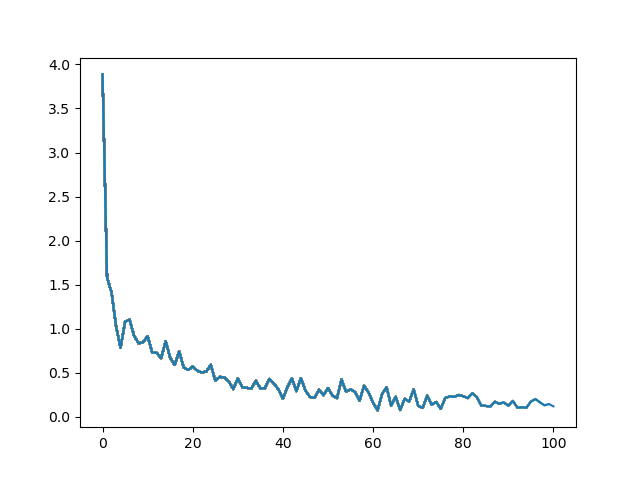
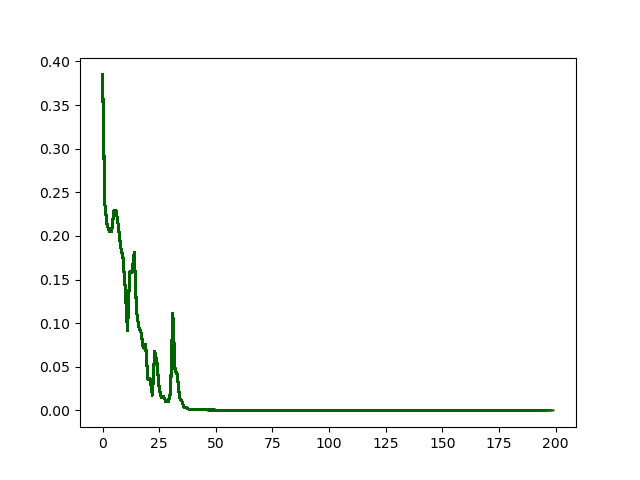
5 classes

diff --git a/brainclip/model/network/image_classifier.py b/brainclip/model/network/image_classifier.py
@@ -2,21 +2,31 @@ import torch
 import torch.nn as nn
 from torchvision.models.video import r3d_18
 from torch.optim import Adam
-from brainclip.model.utils.file_utils import update_png
+from brainclip.model.utils.file_utils import update_png, get_device 
 import torch
 from torch.utils.data import DataLoader
 from brainclip.model.utils.file_utils import load_dataset
+import numpy as np
 
 class ImageEncoder(nn.Module):
-    def __init__(self, embedding_size=200):
+    def __init__(self, embedding_size=400):
         super(ImageEncoder, self).__init__()
         self.embedding_size=embedding_size 
-        self.num_classes = 3 
+        self.num_classes = 5 
+
         self.resnet3d_output_size = 400 # number of classes for kinetics400
         self.resnet3d = r3d_18(weights='KINETICS400_V1')
+
+        # freeze all layers except last one - Linear Probing
+        for param in self.resnet3d.parameters():
+            param.requires_grad_(False)
+
+        for param in self.resnet3d.layer4.parameters():
+            param.requires_grad_(True)
+
         self.embedding_layer = nn.Linear(
             in_features=self.resnet3d_output_size,
-            out_features=self.num_classes # change to self.embedding_size
+            out_features=self.num_classes 
             )
 
     def forward(self, x):
@@ -34,7 +44,7 @@ class BrainCLIPDataset(torch.utils.data.Dataset):
         return len(self.data)
     
     def __getitem__(self, index):
-        image, input_id_report, attention_mask_report, label = self.data[index]
+        image, input_id_report, attention_mask_report, label, img_path = self.data[index]
         return image, label
 
 class BrainCLIPDataLoader:
@@ -42,6 +52,9 @@ class BrainCLIPDataLoader:
         self.split_type = split_type
         self.batch_size = batch_size
         self.train_dataset = BrainCLIPDataset(self.split_type)
+
+    def __len__(self):
+        return len(self.train_dataset)
         
     def __iter__(self):
         train_loader = DataLoader(self.train_dataset, batch_size=self.batch_size, shuffle=True)
@@ -49,25 +62,57 @@ class BrainCLIPDataLoader:
 
 
 
-
-model = ImageEncoder()
-criterion = nn.CrossEntropyLoss()
+device = get_device()
+model = ImageEncoder().to(device)
+ce_loss = nn.CrossEntropyLoss()
 optimizer = Adam(model.parameters(), lr=0.001)
 
 train_loader = BrainCLIPDataLoader("train")
 
-num_epochs = 50
-loss_history = []
+num_epochs = 200
+train_losses = []
 
 for epoch in range(num_epochs):
-    for images, labels in train_loader:
+    epoch_loss = 0.0
+    for batch_idx, (images, label) in enumerate(train_loader):
+        # move data to device
+        images, labels = images.to(device), label.to(device)
         optimizer.zero_grad()
-        outputs = model(images)
-        loss = criterion(outputs, labels)
-        loss_history.append(loss.detach().numpy())
-        update_png(loss_history)
+
+        output = model(images)
+        loss = ce_loss(output, label.to(device))
+        epoch_loss += loss.item()
+
+        # backward pass and optimize
         loss.backward()
         optimizer.step()
 
+    # log epoch loss and update plot
+    epoch_loss /= len(train_loader)
+    train_losses.append(epoch_loss)
 
-torch.save(model.state_dict(), "/datadrive_m2/alice/brain-CLIP/brainclip/model/experiments/image_encoder.pt")
+    print(f"Epoch {epoch + 1} loss: {epoch_loss:.4f}")
+
+    update_png(train_losses, "imgclass") 
+
+
+# ---- inference
+
+test_loader = BrainCLIPDataLoader("valid", batch_size=2)
+
+predictions = []
+ground_truth = []
+for images, labels in test_loader:
+    images, labels = images.to(device), labels.to(device)
+    with torch.no_grad():
+        output = model(images)
+        print(output)
+        predictions.append(output.argmax(dim=1).cpu().numpy())
+        ground_truth.append(labels.argmax(dim=1).cpu().numpy())
+
+predictions = np.concatenate(predictions)
+ground_truth = np.concatenate(ground_truth)
+
+accuracy = (predictions == ground_truth).mean()
+print(f"GT:{ground_truth}, \nP: {predictions}")
+print(f"Accuracy: {accuracy}")

diff --git a/brainclip/model/inference/find_match.py b/brainclip/model/inference/find_match.py
@@ -5,6 +5,8 @@ from brainclip.model.utils.file_utils import get_device, load_BrainCLIP
 from brainclip.model.network.data_loader import BrainCLIPDataLoader
 from brainclip.model.utils.processing import tokenize
 import torch.nn.functional as F
+from brainclip.model.network.brain_CLIP_model import BrainCLIPClassifier, ImageEncoder, TextEncoder, BrainCLIP
+
 
 
 def get_image_embeddings(model, device):
@@ -57,8 +59,8 @@ def get_embeddings(model, device, query):
     return torch.cat(valid_image_embeddings), torch.cat(valid_text_embeddings), valid_image_paths, valid_true_class
 
 def get_class_prediction(image_embeddings, text_embeddings):
-    cat_embedding = torch.cat((image_embeddings, text_embeddings.repeat(5,1)), dim=1)
-    cls_pred = model.fc(cat_embedding)
+    cat_embedding = torch.cat((image_embeddings, text_embeddings.repeat(10,1)), dim=1)
+    cls_pred = brainclip_model.fc(cat_embedding)
     return cls_pred.cpu()
 
 def correct_prediction(ground_truth, predictions):
@@ -71,29 +73,27 @@ def find_matches(model, device, query, n=5):
     image_embeddings, image_filenames, ground_truth = get_image_embeddings(model, device)
     text_embeddings = get_text_embeddings(model, device, query)
     
-    cls_pred = get_class_prediction(image_embeddings, text_embeddings)
+    #cls_pred = get_class_prediction(image_embeddings, text_embeddings)
 
     image_embeddings_n = F.normalize(image_embeddings, p=2, dim=-1)
     text_embeddings_n = F.normalize(text_embeddings, p=2, dim=-1)
     dot_similarity = text_embeddings_n @ image_embeddings_n.T
     
-    # multiplying by 5 to consider that there are 5 captions for a single image
-    # so in indices, the first 5 indices point to a single image, the second 5 indices
-    # to another one and so on.
-    values, indices = torch.topk(dot_similarity.squeeze(0), n * 1)
-    matches = [image_filenames[idx] for idx in indices[::5]]
+    values, indices = torch.topk(dot_similarity.squeeze(0), n)
+    matches = [image_filenames[idx] for idx in indices]
     
     """Plot matches function""" # TODO
 
     print(values, indices, matches)
-    print(correct_prediction(ground_truth, cls_pred))
+    #print(correct_prediction(ground_truth, cls_pred))
 
 
 device = get_device()
-model =load_BrainCLIP(device,"/datadrive_m2/alice/brain-CLIP/brainclip/model/experiments/brainclip_class_final.pt")
+brainclip_model = BrainCLIP(ImageEncoder(), TextEncoder()).to(device) # infarct, normal, others
+brainclip_model = load_BrainCLIP(device, final_model_path, brainclip_model)
 
-find_matches(model, 
+find_matches(brainclip_model, 
              device,
-             query="no infarct",
-             n=5
+             query="tumor",
+             n=3
              )

diff --git a/brainclip/model/network/brain_CLIP_model.py b/brainclip/model/network/brain_CLIP_model.py
@@ -9,10 +9,17 @@ class ImageEncoder(nn.Module):
     def __init__(self, embedding_size=400):
         super(ImageEncoder, self).__init__()
         self.embedding_size=embedding_size 
-        self.num_classes = 3 
+
         self.resnet3d_output_size = 400 # number of classes for kinetics400
         self.resnet3d = r3d_18(weights='KINETICS400_V1')
-        self.resnet3d.requires_grad_(False)
+        
+        # freeze all layers except last one - Linear Probing
+        for param in self.resnet3d.parameters():
+            param.requires_grad_(False)
+
+        for param in self.resnet3d.layer4.parameters():
+            param.requires_grad_(True)
+
         self.embedding_layer = nn.Linear(
             in_features=self.resnet3d_output_size,
             out_features=self.embedding_size
@@ -28,9 +35,10 @@ class TextEncoder(nn.Module):
     def __init__(self, embedding_size=400):
         super(TextEncoder, self).__init__()
         self.embedding_size=embedding_size
+        self.distilbert_output_size = 768
         self.distilbert = DistilBertModel.from_pretrained('distilbert-base-uncased')
         self.distilbert.requires_grad_(False) # freeze all bert layers
-        self.embedding_layer = nn.Linear(in_features=768, out_features=embedding_size)
+        self.embedding_layer = nn.Linear(in_features=self.distilbert_output_size, out_features=embedding_size)
 
     def forward(self, input_id_report, attention_mask_report):
         outputs = self.distilbert(input_id_report.squeeze(0), attention_mask_report)
@@ -71,7 +79,7 @@ class BrainCLIP(nn.Module):
         self.text_encoder = text_encoder
         self.image_projection = ProjectionHead(embedding_dim=self.image_encoder.embedding_size)
         self.text_projection = ProjectionHead(embedding_dim=self.text_encoder.embedding_size)
-        self.temperature = 1.0 # no difference
+        self.temperature = 0.2 # no difference
 
     def cross_entropy(self, preds, targets, reduction='none'):
         log_softmax = nn.LogSoftmax(dim=-1)

diff --git a/brainclip/model/network/classification.py b/brainclip/model/network/classification.py
@@ -11,25 +11,37 @@ device = get_device()
 brainclip_model = BrainCLIP(ImageEncoder(), TextEncoder()).to(device) # infarct, normal, others
 brainclip_model = load_BrainCLIP(device, final_model_path, brainclip_model)
 
-model = BrainCLIPClassifier(brainclip_model, 3).to(device)
+model = BrainCLIPClassifier(brainclip_model, 5).to(device)
 
 train_loader = BrainCLIPDataLoader("train", batch_size=5)
 
 learning_rate = 0.001
 optimizer = Adam(model.parameters(), lr=learning_rate)
 
-num_epochs = 20
-loss_history = []
+num_epochs = 200
+train_losses = []
 
 for epoch in range(num_epochs):
-    for images, input_id_report, attention_mask_report, labels, _ in train_loader:
-        data = [d.to(device) for d in [images, input_id_report, attention_mask_report, labels]]
+    epoch_loss = 0.0
+    for batch_idx, (images, input_id_report, attention_mask_report, label, _) in enumerate(train_loader):
+        # move data to device
+        images, input_id_report, attention_mask_report, label = images.to(device), input_id_report.to(device), attention_mask_report.to(device), label.to(device)
         optimizer.zero_grad()
-        loss = model(*data)
-        loss_history.append(loss.detach().cpu().numpy())
-        update_png(loss_history, "classification")
+
+        loss = model(images, input_id_report, attention_mask_report, label)
+        epoch_loss += loss.item()
+
+        # backward pass and optimize
         loss.backward()
         optimizer.step()
+
+    # log epoch loss and update plot
+    epoch_loss /= len(train_loader)
+    train_losses.append(epoch_loss)
+
+    print(f"Epoch {epoch + 1} loss: {epoch_loss:.4f}")
+
+    update_png(train_losses, "brainclip_cls_")  
     
     if epoch % 100 == 0:
         torch.save(model.state_dict(), f"/datadrive_m2/alice/brain-CLIP/brainclip/model/experiments/brainclip_class_epoch_{epoch}.pt")

diff --git a/brainclip/model/network/loops.py b/brainclip/model/network/loops.py
@@ -16,7 +16,7 @@ model = BrainCLIP(image_encoder, text_encoder).to(device) # infarct, normal, oth
 learning_rate = 0.001
 optimizer = Adam(model.parameters(), lr=learning_rate)
 
-num_epochs = 300
+num_epochs = 200
 train_losses = []
 
 for epoch in range(num_epochs):
@@ -39,6 +39,9 @@ for epoch in range(num_epochs):
     # log epoch loss and update plot
     epoch_loss /= len(train_loader)
     train_losses.append(epoch_loss)
+
+    print(f"Epoch {epoch + 1} loss: {epoch_loss:.4f}")
+
     update_png(train_losses, "brainclip")   
 
     

diff --git a/brainclip/model/inference/predict_class.py b/brainclip/model/inference/predict_class.py
@@ -12,9 +12,9 @@ device = get_device()
 brainclip_model = BrainCLIP(ImageEncoder(), TextEncoder()).to(device) # infarct, normal, others
 brainclip_model = load_BrainCLIP(device, final_model_path, brainclip_model)
 
-model = BrainCLIPClassifier(brainclip_model, 3, inference=True).to(device)
+model = BrainCLIPClassifier(brainclip_model, 5, inference=True).to(device)
 
-test_loader = BrainCLIPDataLoader("valid", batch_size=1)
+test_loader = BrainCLIPDataLoader("valid", batch_size=2)
 
 predictions = []
 ground_truth = []

diff --git a/brainclip/model/utils/file_utils.py b/brainclip/model/utils/file_utils.py
@@ -26,7 +26,8 @@ def load_dataset(split_type):
 
 
     dataset = {}
-    one_hot = one_hot_encoding(['infarct', 'normal', 'others'])
+    #one_hot = one_hot_encoding(['infarct', 'normal', 'others'])
+    one_hot = one_hot_encoding(['infarct', 'tumor', 'hemorrhage', 'normal', 'others'])
     json_path = os.path.join(data_folder, f"{split_type}.json")
 
     with open(json_path, "r") as f: 
